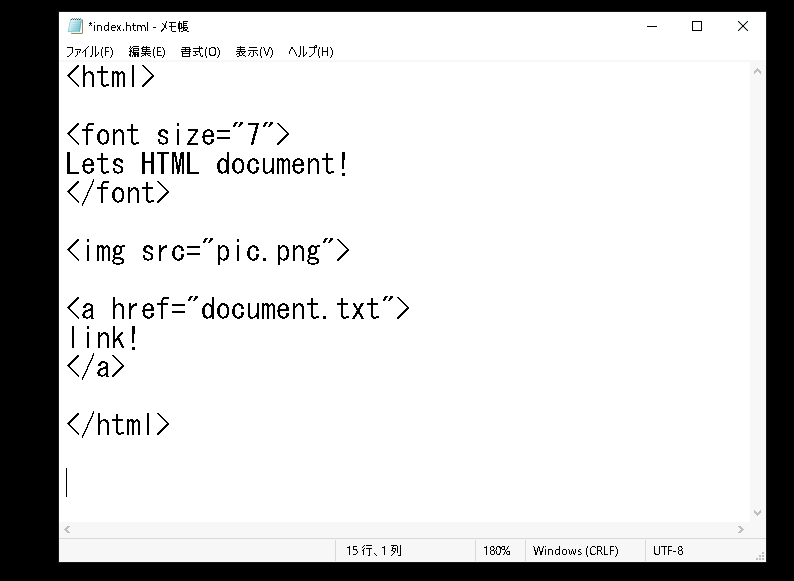
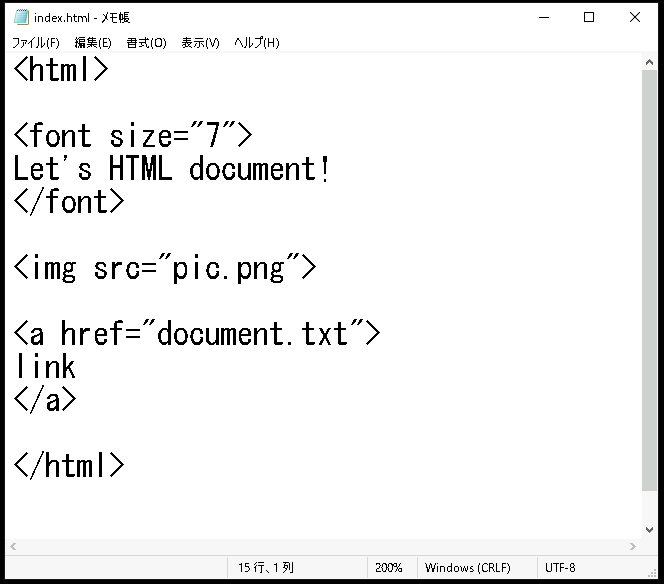
update

Changed region(s): [[0.0, 0.0, 0.994, 1.0]]

diff --git a/Web Server構築(Windows).md b/Web Server構築(Windows).md
@@ -146,7 +146,7 @@
     1. 操作コンピュータを変更するため、演習環境のトップページに戻る  
     1. Windows Client(WinClient)の管理画面に "admin" で接続する   
     1. WinClientでWebブラウザ(Google Chrome)を起動する  
-    1. Webブラウザのアドレス欄に [http://10.X.1.105/web1/document.txt] と入力し、[Enter]キーを押下する  
+    1. Webブラウザのアドレス欄に [http://10.X.2.105/web1/document.txt] と入力し、[Enter]キーを押下する  
     1. Webコンテンツとして"document.txt"を参照できたことを確認する  
         <kbd>![img](image/07/37.png)</kbd> 
 
@@ -173,6 +173,7 @@
     1. 右クリック コンテキストメニューの[プログラムから開く]-[別のプログラムを選択]をクリックする  
         <kbd>![img](image/07/42.png)</kbd> 
     1. [このファイルを開く方法を選んでください]ウィンドウが表示されたのを確認する  
+    1. [その他のアプリ]をクリックする  
     1. メニュー内の[メモ帳]をクリックして選択し、[OK]をクリックする  
         <kbd>![img](image/07/43.png)</kbd> 
     1. メモ帳で "index.html" ファイルを開いたことを確認する
@@ -186,13 +187,13 @@
         <html>
 
         <font size="7">
-        Lets HTML document!
+        Let's HTML document!
         </font>
 
         <img src="pic.png">
 
         <a href="document.txt">
-        link!
+        link
         </a>
 
         </html>
@@ -201,6 +202,25 @@
         <kbd>![img](image/07/45.png)</kbd>
 
     1. "index.html" ファイルを上書き保存する  
+
+
+1. 画像ファイルを作成する  
+    1. [Windowsメニュー] - [Windowsアクセサリ] - [ペイント] をクリックし、ペイントツールを起動する
+        <kbd>![img](image/07/46.png)</kbd> 
+    1. Webコンテンツとして任意の絵を描画する    
+        <kbd>![img](image/07/47.png)</kbd>  
+    1. ペイントで作成した絵を、web1フォルダにpic.pngとして保存する  
+        <kbd>![img](image/07/48.png)</kbd>  
+
+
+1. ClientのWebブラウザからWebアクセスする  
+    1. 操作コンピュータを変更するため、演習環境のトップページに戻る  
+    1. Windows Client(WinClient)の管理画面に "admin" で接続する   
+    1. WinClientでWebブラウザ(Google Chrome)を起動する  
+    1. Webブラウザのアドレス欄に [http://10.X.2.105/web1/index.html] と入力し、[Enter]キーを押下する  
+    1. Webコンテンツとして"index.html"を参照できたことを確認する  
+        <kbd>![img](image/07/49.png)</kbd> 
+
 
 
 
